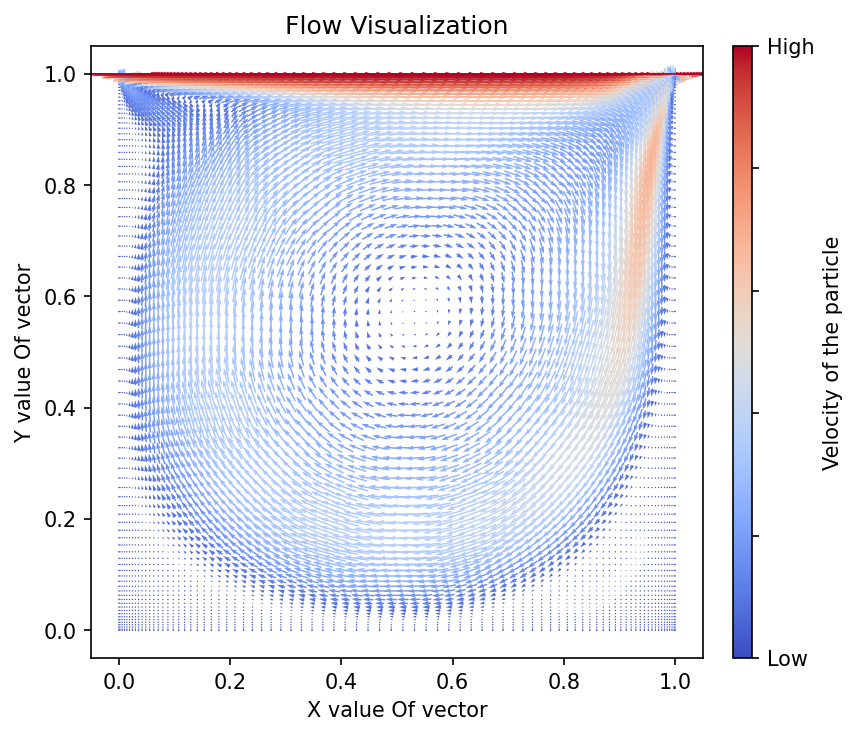
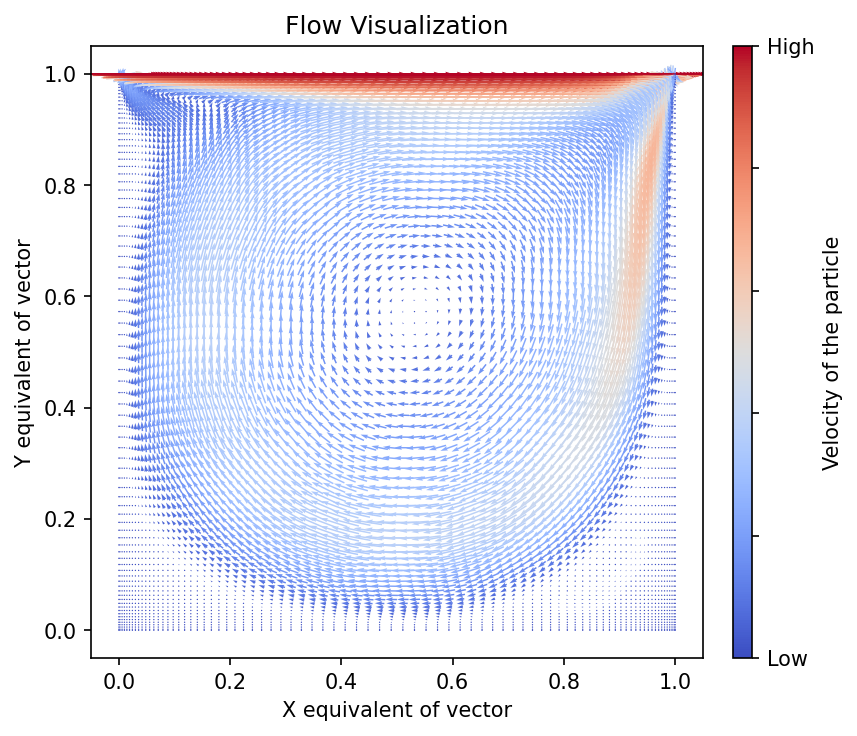
IDV assignment with interative display

Changed region(s): [[0.3337, 0.9375, 0.6068, 1.0], [0.0, 0.3438, 0.0607, 0.625]]

diff --git a/test.py b/test.py
@@ -1,75 +1,132 @@
-# import os
-# print("My name is", os.getlogin(), 'and I am', 26, " years old")
+# # import os
+# # print("My name is", os.getlogin(), 'and I am', 26, " years old")
+# #
+# # def you_pay(spending, is_monday):
+# #     if spending <51:
+# #         return ((spending)-(spending/100)*10)
+# #     elif is_monday and spending >= 51:
+# #         new_spending = spending - 5
+# #     else:
+# #         new_spending = spending
+# #     if spending > 50 and spending <= 100:
+# #         return (new_spending-((new_spending)/100)*20)
+# #     else:
+# #         return (new_spending-((new_spending)/100)*40)
+# #
+# # test = [50, 51, 100, 101]
+# # for num in test:
+# #     print("For",num,"CAD, you pay", you_pay(num,True),"if  Monday")
+# # print("--------------------------------------------------------------------------------")
+# # for num in test:
+# #     print("For",num,"CAD, you pay", you_pay(num,False),"if  Monday")
 #
-# def you_pay(spending, is_monday):
-#     if spending <51:
-#         return ((spending)-(spending/100)*10)
-#     elif is_monday and spending >= 51:
-#         new_spending = spending - 5
-#     else:
-#         new_spending = spending
-#     if spending > 50 and spending <= 100:
-#         return (new_spending-((new_spending)/100)*20)
-#     else:
-#         return (new_spending-((new_spending)/100)*40)
+# # f =
+# # print(f.read())
 #
-# test = [50, 51, 100, 101]
-# for num in test:
-#     print("For",num,"CAD, you pay", you_pay(num,True),"if  Monday")
-# print("--------------------------------------------------------------------------------")
-# for num in test:
-#     print("For",num,"CAD, you pay", you_pay(num,False),"if  Monday")
-
-# f =
-# print(f.read())
-
+# # with open('colorado_elev.vit', 'rb') as f:
+# # data = f.read()
+# # print(data)
+#
+# import numpy as np
+# import matplotlib.pyplot as plt
+#
 # with open('colorado_elev.vit', 'rb') as f:
-# data = f.read()
-# print(data)
-
-import numpy as np
-import matplotlib.pyplot as plt
-
-with open('colorado_elev.vit', 'rb') as f:
-    data = f.read()
-    
-arr1 = np.array([])
-print(arr1)
-# for i in data:
-#     arr1 =  arr1
-lst = []
-for i in data:
-    lst.append(i)
-
-print(len(lst))
-arr1 = np.array(lst[268:])
-arr1 = arr1.reshape(400,400)
-print(arr1)
-
-
-# plt.imshow(arr1, origin = 'lower',  extent = [0, 400, 0, 400], aspect = 1000)
-# plt.xlabel('X')
-# plt.ylabel('Y')
-# plt.plot(arr1)
+#     data = f.read()
 #
-# fig ,axes = plt.subplots() # figure will have two rows and two column
-# It is a 1D array
+# arr1 = np.array([])
+# print(arr1)
+# # for i in data:
+# #     arr1 =  arr1
+# lst = []
+# for i in data:
+#     lst.append(i)
+#
+# print(len(lst))
+# arr1 = np.array(lst[268:])
+# arr1 = arr1.reshape(400,400)
+# print(arr1)
+#
+#
+# # plt.imshow(arr1, origin = 'lower',  extent = [0, 400, 0, 400], aspect = 1000)
+# # plt.xlabel('X')
+# # plt.ylabel('Y')
+# # plt.plot(arr1)
+# #
+# # fig ,axes = plt.subplots() # figure will have two rows and two column
+# # It is a 1D array
+#
+# # axes.imshow(arr1, cmap='gray')
+# # axes.plot(arr1)
+# # axes.set_title('Colorado Data Set')
+# # axes.set_xlim([0,400])
+# # axes.set_ylim([0,400])
+# # plt.show()
+#
+#
+# # fig1 ,axes1 = plt.subplots() # figure will have two rows and two column
+# # It is a 1D array
+#
+# # axes.imshow(arr1, cmap='gray')
+# # axes1.plot(arr1[100:300])
+# # axes1.set_title('Colorado Data Set')
+# # axes1.set_xlim([0,400])
+# # axes1.set_ylim([0,400])
+# # plt.show()
+#
 
-# axes.imshow(arr1, cmap='gray')
-# axes.plot(arr1)
-# axes.set_title('Colorado Data Set')
-# axes.set_xlim([0,400])
-# axes.set_ylim([0,400])
+
+
+from matplotlib import pyplot as plt
+import mplcursors
+from pandas import DataFrame
+import matplotlib.pyplot as plt
+import numpy as np
+fig, ax = plt.subplots()
+df = DataFrame(
+    [(0, 0, 1, 1),
+     (1, 1, 1, 1),
+     (0, 4, 1, 1),
+     (0, 2, 1, 1)],
+    columns=["x_pos", "y_pos", "x_direct", "y_direct"])
+
+df['length'] = np.hypot(df.x_direct , df.y_direct)
+flow = ax.quiver(df.x_pos, df.y_pos, df.x_direct, df.y_direct)
+ax.set_title('Quiver plot with one arrow')
+#
+# df.plot.scatter("height", "weight")
+mplcursors.cursor( hover=True ).connect(
+    # "add" , lambda sel : sel.annotation.set_text(df["length"][sel.target.index]))
+    # "add", lambda sel: sel.annotation.set_text("{}".format([df["x_pos"][sel.target.index], df["y_pos"][sel.target.index],
+    #                                             df["x_direct"][sel.target.index],df["y_direct"][sel.target.index],
+    #                                             df["length"][sel.target.index]])))
+    "add" ,lambda sel : sel.annotation.set_text("x = {}, y = {} , dx = {} , dy = {} , length = {:.2f}".format(
+                                                                           df["x_pos"][sel.target.index],
+                                                                           df["y_pos"][sel.target.index],
+                                                                           df["x_direct"][sel.target.index],
+                                                                           df["x_direct"][sel.target.index],
+                                                                           df["length"][sel.target.index]))
+    )
+plt.show()
+
+# test: skip
+# import matplotlib.pyplot as plt
+# import mplcursors
+# import numpy as np
+#
+# x = np.array([0, 1, 2, 3, 4])
+# y = np.array([1, 2, 3, 4, 5])
+# y2 = np.array([2, 3, 4, 5, 6])
+#
+# fig, ax = plt.subplots()
+# line1, = ax.plot(x, y, "ro")
+# line2, = ax.plot(x, y2, 'bx')
+#
+# labels1 = ["a", "b", "c", "d", "e"]
+# labels2 = ["f", "g", "h", "i", "j"]
+#
+# d = dict(zip([line1, line2], [labels1, labels2]))
+#
+# mplcursors.cursor(ax, hover=True).connect(
+#     "add", lambda sel: sel.annotation.set_text(d[sel.artist][sel.target.index]))
+#
 # plt.show()
-
-
-# fig1 ,axes1 = plt.subplots() # figure will have two rows and two column
-# It is a 1D array
-
-# axes.imshow(arr1, cmap='gray')
-# axes1.plot(arr1[100:300])
-# axes1.set_title('Colorado Data Set')
-# axes1.set_xlim([0,400])
-# axes1.set_ylim([0,400])
-# plt.show()
-

diff --git a/Assignment1.py b/Assignment1.py
@@ -1,13 +1,15 @@
-#######################################################################
+####################################################################################################
 # Author : Tejas Ravindra Dhawale
 # Student Id : 6882910
-#######################################################################
+####################################################################################################
 # References used :
 #https://stackoverflow.com/questions/25505674/python-matplotlib-add-colorbar
 #https://stackoverflow.com/questions/8931268/using-colormaps-to-set-color-of-line-in-matplotlib
 #https://pythonforundergradengineers.com/quiver-plot-with-matplotlib-and-jupyter-notebooks.html
 #https://problemsolvingwithpython.com/06-Plotting-with-Matplotlib/06.15-Quiver-and-Stream-Plots/
-#######################################################################
+#https://mplcursors.readthedocs.io/en/stable/examples/nondraggable.html
+####################################################################################################
+
 # Importing necessary libraries
 import numpy as np
 import pandas as pd
@@ -15,9 +17,13 @@ import matplotlib.pyplot as plt
 import matplotlib.colors as colors
 import matplotlib.cm as cmx
 import matplotlib as mpl
+import mplcursors
+
 
 # Reading the data set
 data = pd.read_csv('field2.irreg.txt', sep=" " , header=None , skiprows= 6)
+# Adding labels to column to display value when hovering over it
+data.columns = ["x","y","z","dx","dy","dz"]
 
 
 # Normalize and set color
@@ -27,17 +33,17 @@ scalarMap = cmx.ScalarMappable(norm=cNorm,cmap=cmap)
 
 
 # Calculating length of the arrow to determine the color values
-length = np.hypot(data[3] , data[4])
+data["length"] = np.hypot(data["dx"] , data["dy"])
 
 
 # Plot Figure
 fig = plt.figure()
 ax  = fig.add_axes([0.1, 0.1, 0.7, 0.85])
-ax.quiver(data[0],data[1],data[3],data[4],color = scalarMap.to_rgba(length) ,pivot='mid' , scale = 8  )
+ax.quiver(data["x"],data["y"],data["dx"],data["dy"],color = scalarMap.to_rgba(data["length"]) ,pivot='mid' , scale = 8  )
 ax.set_title('Flow Visualization')
 ax.set_aspect('equal')
-ax.set_xlabel('X value of vector')
-ax.set_ylabel('Y value of vector')
+ax.set_xlabel('X equivalent of vector')
+ax.set_ylabel('Y equivalent of vector')
 ax.use_sticky_edges = False
 
 
@@ -47,6 +53,20 @@ cb = mpl.colorbar.ColorbarBase(cax, cmap=cmap, norm=cNorm)
 cax.set_yticklabels(['Low', '','', '', '','High'])
 cb.set_label('Velocity of the particle')
 
-# Save the plot as .png image
+
+# Interactive Plotting
+# Displaying values on Hovering. You can check values of the tip of the arrow
+mplcursors.cursor( hover=True ).connect(
+    "add" ,lambda sel : sel.annotation.set_text("x = {:.2f}, y = {:.2f} , dx = {:.2f} , dy = {:.2f} , length = {:.2f}"
+																		   .format(
+                                                                           data["x"][sel.target.index],
+                                                                           data["y"][sel.target.index],
+                                                                           data["dx"][sel.target.index],
+                                                                           data["dy"][sel.target.index],
+                                                                           data["length"][sel.target.index]))
+    )
+
+
+# Save Figure
 fig.savefig('Assignment1.png' , bbox_inches="tight" , dpi=150)
 plt.show()
